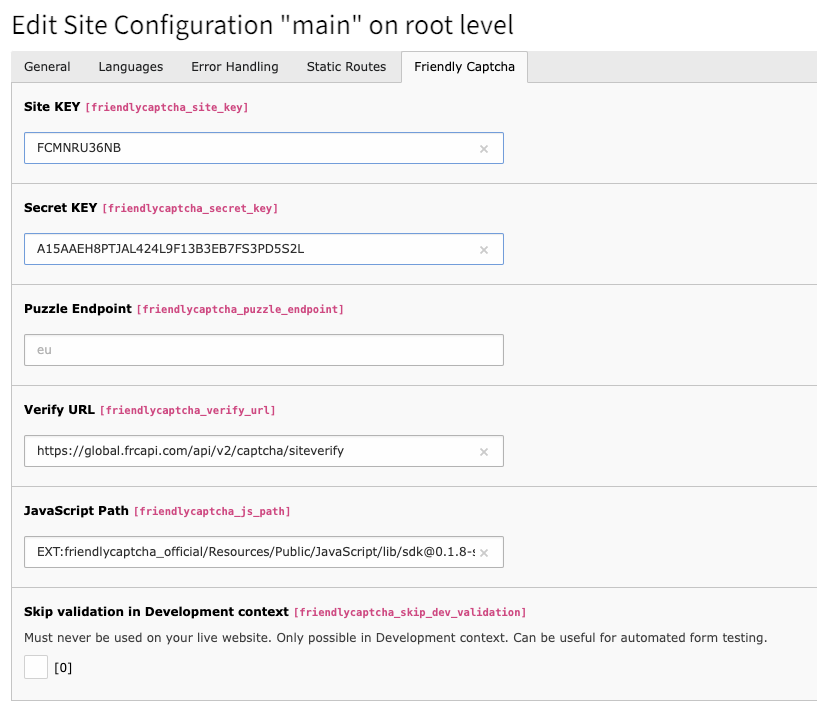
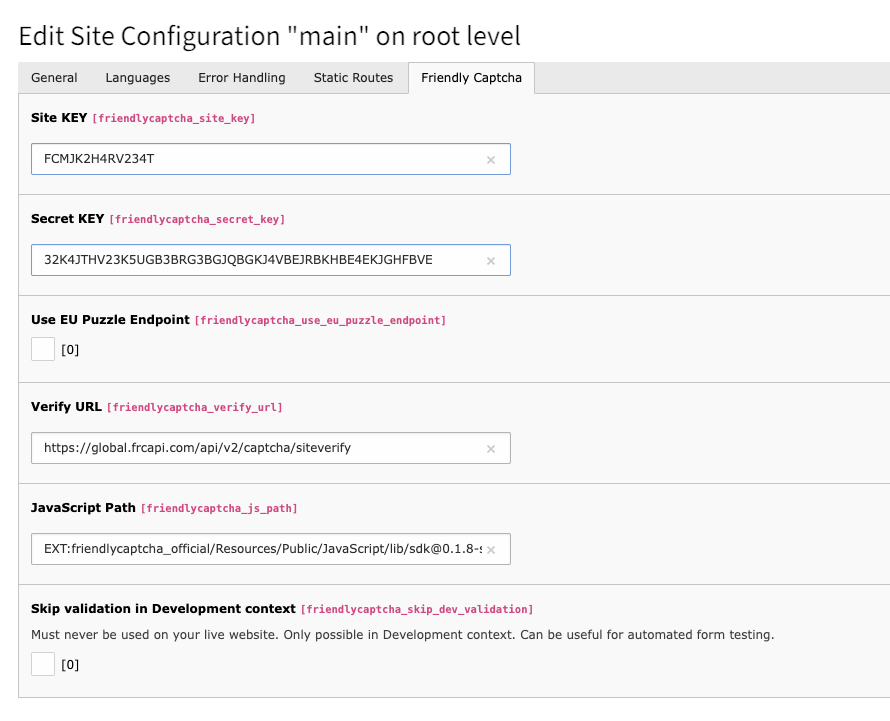
Change Puzzle Endpoint filed in SiteConfig to checkbox

diff --git a/Resources/Private/Powermail/Partials/Form/Field/Friendlycaptcha.html b/Resources/Private/Powermail/Partials/Form/Field/Friendlycaptcha.html
@@ -6,7 +6,7 @@
     <f:if condition="{captchaConfiguration.enabled}">
         <f:then>
             <f:asset.script defer="1" async="1" identifier="friendlycaptcha" src="{captchaConfiguration.jsPath}" />
-            <div class="frc-captcha" data-sitekey="{captchaConfiguration.siteKey}" {f:if(condition: '{captchaConfiguration.puzzleEndpoint}', then: 'data-api-endpoint="{captchaConfiguration.puzzleEndpoint}"')}></div>
+            <div class="frc-captcha" data-sitekey="{captchaConfiguration.siteKey}" {f:if(condition: '{captchaConfiguration.useEuPuzzleEndpoint}', then: 'data-api-endpoint="eu"')}></div>
         </f:then>
         <f:else>
             <p>{f:translate(key:'LLL:EXT:friendlycaptcha_official/Resources/Private/Language/locallang.xlf:configuration_missing')}</p>

diff --git a/Resources/Private/Form/Partials/Friendlycaptcha.html b/Resources/Private/Form/Partials/Friendlycaptcha.html
@@ -24,7 +24,7 @@
                         value="1"
                         additionalAttributes="{formvh:translateElementProperty(element: element, property: 'fluidAdditionalAttributes')}"
                     />
-                    <div class="frc-captcha" data-sitekey="{captchaConfiguration.siteKey}" {f:if(condition: '{captchaConfiguration.puzzleEndpoint}', then: 'data-api-endpoint="{captchaConfiguration.puzzleEndpoint}"')}></div>
+                    <div class="frc-captcha" data-sitekey="{captchaConfiguration.siteKey}" {f:if(condition: '{captchaConfiguration.useEuPuzzleEndpoint}', then: 'data-api-endpoint="eu"')}></div>
                 </f:render>
             </f:then>
             <f:else>

diff --git a/Configuration/SiteConfiguration/Overrides/sites.php b/Configuration/SiteConfiguration/Overrides/sites.php
@@ -17,12 +17,10 @@ call_user_func(
                 'placeholder' => 'A16UE6NICBMVQKG1I1BFMLBD56K53D3CS0L5N00AJNBT1R41P8O7N1KFMH',
             ],
         ];
-        $GLOBALS['SiteConfiguration']['site']['columns']['friendlycaptcha_puzzle_endpoint'] = [
+        $GLOBALS['SiteConfiguration']['site']['columns']['friendlycaptcha_use_eu_puzzle_endpoint'] = [
             'label' => $lll . 'site.configuration.puzzle_endpoint',
             'config' => [
-                'type' => 'input',
-                'placeholder' => 'eu',
-                'default' => '',
+                'type' => 'check',
             ],
         ];
         $GLOBALS['SiteConfiguration']['site']['columns']['friendlycaptcha_verify_url'] = [
@@ -48,6 +46,6 @@ call_user_func(
                 'type' => 'check',
             ],
         ];
-        $GLOBALS['SiteConfiguration']['site']['types']['0']['showitem'] .= ',--div--;' . $lll . 'site.configuration.tab, friendlycaptcha_site_key,friendlycaptcha_secret_key,friendlycaptcha_puzzle_endpoint,friendlycaptcha_verify_url,friendlycaptcha_js_path,friendlycaptcha_skip_dev_validation,';
+        $GLOBALS['SiteConfiguration']['site']['types']['0']['showitem'] .= ',--div--;' . $lll . 'site.configuration.tab, friendlycaptcha_site_key,friendlycaptcha_secret_key,friendlycaptcha_use_eu_puzzle_endpoint,friendlycaptcha_verify_url,friendlycaptcha_js_path,friendlycaptcha_skip_dev_validation,';
     }
 );

diff --git a/Classes/Configuration.php b/Classes/Configuration.php
@@ -15,7 +15,7 @@ class Configuration
 
     protected string $siteKey = '';
     protected string $siteSecretKey = '';
-    protected string $puzzleEndpoint = '';
+    protected bool $useEuPuzzleEndpoint = false;
     protected string $verifyUrl = '';
     protected string $jsPath = '';
     protected bool $skipDevValidation = false;
@@ -31,7 +31,7 @@ class Configuration
         $siteConfiguration = $site->getConfiguration();
         $this->siteKey = trim($siteConfiguration['friendlycaptcha_site_key'] ?? '');
         $this->siteSecretKey = trim($siteConfiguration['friendlycaptcha_secret_key'] ?? '');
-        $this->puzzleEndpoint = trim($siteConfiguration['friendlycaptcha_puzzle_endpoint'] ?? '');
+        $this->useEuPuzzleEndpoint = $siteConfiguration['friendlycaptcha_use_eu_puzzle_endpoint'];
         $this->verifyUrl = trim($siteConfiguration['friendlycaptcha_verify_url'] ?? '');
         $this->jsPath = trim($siteConfiguration['friendlycaptcha_js_path'] ?? '');
         $this->skipDevValidation = (bool)($siteConfiguration['friendlycaptcha_skip_dev_validation'] ?? false);
@@ -52,9 +52,9 @@ class Configuration
         return $this->siteSecretKey;
     }
 
-    public function getPuzzleEndpoint(): string
+    public function useEuPuzzleEndpoint(): bool
     {
-        return $this->puzzleEndpoint;
+        return $this->useEuPuzzleEndpoint;
     }
 
     public function getVerifyUrl(): string

diff --git a/Classes/ViewHelpers/ConfigurationViewHelper.php b/Classes/ViewHelpers/ConfigurationViewHelper.php
@@ -18,7 +18,7 @@ class ConfigurationViewHelper extends AbstractViewHelper
         return [
             'siteKey' => $configuration->getSiteKey(),
             'verifyUrl' => $configuration->getVerifyUrl(),
-            'puzzleEndpoint' => $configuration->getPuzzleEndpoint(),
+            'useEuPuzzleEndpoint' => $configuration->useEuPuzzleEndpoint(),
             'jsPath' => $configuration->getJsPath(),
             'enabled' => $configuration->isEnabled(),
         ];

diff --git a/Documentation/Using/Custom.rst b/Documentation/Using/Custom.rst
@@ -24,7 +24,7 @@ The puzzle needs to be integrated into the form. This can be done like this in y
         <f:if condition="{captchaConfiguration.enabled}">
             <f:then>
                 <f:asset.script defer="1" async="1" identifier="friendlycaptcha" src="{captchaConfiguration.jsPath}" />
-                <div class="frc-captcha" data-sitekey="{captchaConfiguration.siteKey}" data-lang="{captchaConfiguration.languageIsoCode}" data-puzzle-endpoint="{captchaConfiguration.puzzleUrl}"></div>
+                <div class="frc-captcha" data-sitekey="{captchaConfiguration.siteKey}" {f:if(condition: '{captchaConfiguration.useEuPuzzleEndpoint}', then: 'data-api-endpoint="eu"')}></div>
             </f:then>
             <f:else>
                 <p>{f:translate(key:'LLL:EXT:friendlycaptcha_official/Resources/Private/Language/locallang.xlf:configuration_missing')}</p>

diff --git a/Documentation/V2_Migration/Index.rst b/Documentation/V2_Migration/Index.rst
@@ -11,6 +11,6 @@ If you’re currently using an earlier version of the plugin with **Friendly Cap
 * Enable **V2** in yout Application in the Panel at https://friendlycaptcha.com/
 * Install the newest version of the plugin (min v1.0)
 * In TYPO3 backend, go to the *Site Management*/*Sites* module and switch to the **FriendlyCaptcha** tab. You need to change the URLs
-**Puzzle Endpoint** - save empty or `eu` if you want to use the EU Endpoint
+**Puzzle Endpoint** - check it if you want to use the EU Endpoint
 **Verify URL** - `https://global.frcapi.com/api/v2/captcha/siteverify` or `https://eu.frcapi.com/api/v2/captcha/siteverify` if you prefer to use EU endpoint
 **JavaScript Path** - `EXT:friendlycaptcha_official/Resources/Public/JavaScript/lib/sdk@0.1.8-site.compat.min.js`

diff --git a/Documentation/Configuration/Integration.rst b/Documentation/Configuration/Integration.rst
@@ -26,6 +26,9 @@ A new tab **Friendly Captcha** is available which includes all configuration opt
     This is described in the :ref:`using` section!
 
 
+By default, the global endpoint `https://global.frcapi.com/api/v2/captcha/siteverify` is used. 
+If you prefer to use the EU endpoint, enter `https://eu.frcapi.com/api/v2/captcha/siteverify` in `Verify URL` field and ensure that the `Use EU Puzzle Endpoint` option is checked.
+
 Working with automated tests
 ============================
 If you are using automated tests you might want to skip the captcha.
